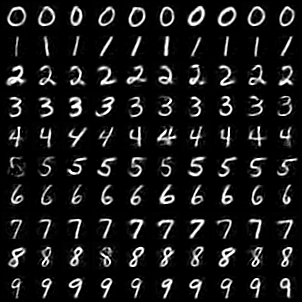
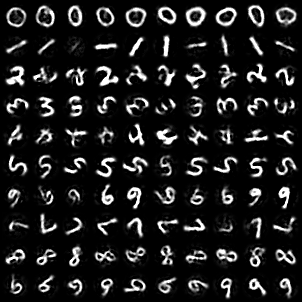
updated model and generation to correctly use ema.

diff --git a/gf/generate.py b/gf/generate.py
@@ -18,16 +18,17 @@ def load_checkpoint(experiment: str, checkpoint_dir: str, device: str) -> Denois
     ckpt = torch.load(path, map_location=device)
 
     config = DenoiserConfig(**ckpt["config"])
-    config.cfg_scale = 2.0
-    config.noise_scale = 0.5
+    config.cfg_scale = 2.5
+    config.noise_scale = 0.8
     model = Denoiser(config, device).to(device)
-    model.load_state_dict(ckpt["model"])
-    for i, (k, v) in enumerate(model.ema.items()):
-        if i == 1:
-            v.load_state_dict(ckpt["ema"][k])
+    summary(model, depth=3)
+
+    decay = sorted(model.ema.keys())[0]
+    model.ema[decay].load_state_dict(ckpt["ema"][decay])
+    model.swap_ema(decay=decay)
+    print(f"Using EMA with {decay=} for sampling")
 
     model.eval()
-    summary(model, depth=3)
 
     print(f"Loaded checkpoint from {path} (step={ckpt.get('global_step', '?')})")
     return model

diff --git a/gf/mnist.py b/gf/mnist.py
@@ -12,7 +12,7 @@ class MNIST(Dataset):
         self,
         root: str = "~/.cache/data",
         train: bool = True,
-        rotate: bool = False,
+        rotate: bool = True,
     ):
         raw = datasets.MNIST(root=root, train=train, download=True)
         self.x = raw.data.unsqueeze(1).float() / 255.0 * 2.0 - 1.0  # (N, 1, 28, 28)
@@ -25,7 +25,7 @@ class MNIST(Dataset):
 
     @property
     def n_classes(self) -> int:
-        return 10
+        return np.unique(self.c).shape[0]
 
     def __len__(self) -> int:
         return self.x.shape[0]

diff --git a/gf/denoiser.py b/gf/denoiser.py
@@ -17,13 +17,13 @@ class DenoiserConfig:
     num_blocks: int = 2
     dropout: float = 0.1
     #
-    cond_drop_prob: float = 0.2
+    cond_drop_prob: float = 0.1
     P_mean: float = -0.8
     P_std: float = 0.8
     t_eps: float = 5e-2
     noise_scale: float = 1.0
     #
-    ema_decay: tuple[float, ...] = (0.9980, 0.9996)
+    ema_decay: tuple[float, ...] = (0.9980, 0.9995)
     #
     sampling_method: Literal["euler", "heun"] = "heun"
     num_sampling_steps: int = 20

diff --git a/gf/train.py b/gf/train.py
@@ -22,7 +22,7 @@ parser.add_argument("--cosine", action="store_true")
 # experiment
 parser.add_argument("--experiment", type=str, default="default")
 parser.add_argument("--checkpoint-dir", type=str, default="checkpoints")
-parser.add_argument("--checkpoint-interval", type=int, default=10)
+parser.add_argument("--checkpoint-interval", type=int, default=2)
 parser.add_argument("--resume", action="store_true")
 parser.add_argument("--offline", action="store_true")
 
